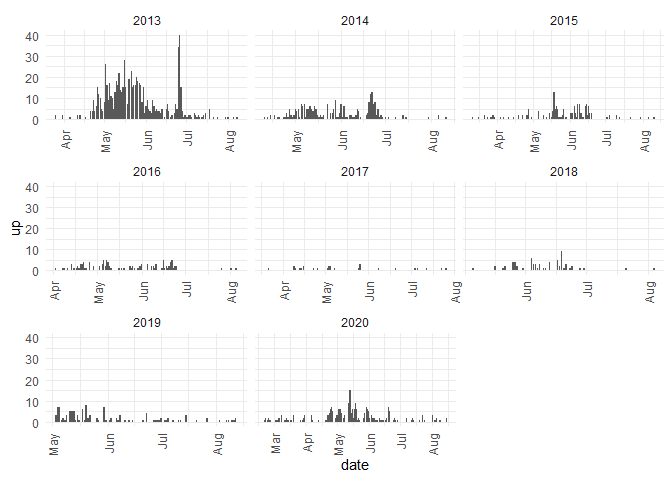
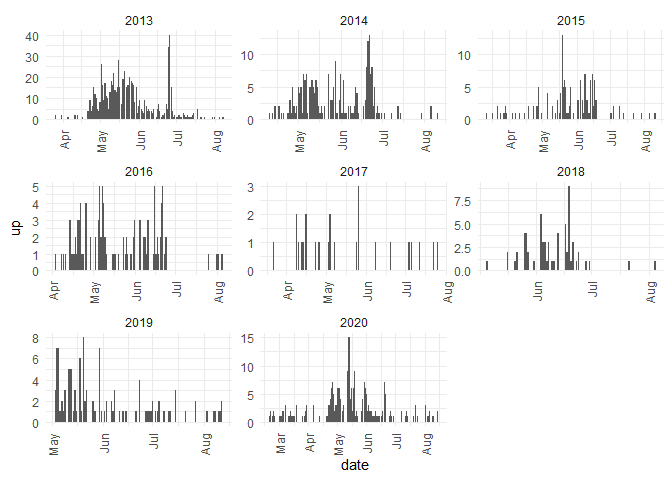
Adds additional qc for passage data into md

diff --git a/scripts/adult-upstream-passage-monitoring/clear-creek-qc-checklist.md b/scripts/adult-upstream-passage-monitoring/clear-creek-qc-checklist.md
@@ -7,10 +7,26 @@ Erin Cain
 
 ## Description of Monitoring Data
 
-TODO add current knows here
+**Timeframe:** 2013-2020
 
-TODO investigate/talk about outages, is a 0 a real zero or explained by
-other factors TODO get location of video monitoring station
+**Video Season:** August - December
+
+**Completeness of Record throughout timeframe:** Data are not padded -
+missing data indicate a period where footage was not collected by USFWS
+(However we are filtering for spring run so it is also possible that
+footage was taken but no spring run were found)
+
+-   TODO investigate/talk about outages, is a 0 a real zero or explained
+    by other factors
+
+**Sampling Location:** TODO get location of video monitoring station
+
+**Data Contact:** [Sam Provins](mailto:samuel_provins@fws.gov)
+
+Additional information describing this monitoring data is available in
+the [Adult Spring Run Chinook Salmon Monitoring in Clear Creek
+Report](https://www.fws.gov/redbluff/CC%20BC/Clear%20Creek%20Monitoring%20Final%20Reports/2013-2018%20Clear%20Creek%20Adult%20Spring-run%20Chinook%20Salmon%20Monitoring.pdf)
+prepared by USFWS.
 
 ## Access Cloud Data
 
@@ -24,7 +40,8 @@ gcs_auth(json_file = Sys.getenv("GCS_AUTH_FILE"))
 gcs_global_bucket(bucket = Sys.getenv("GCS_DEFAULT_BUCKET"))
 
 # git data and save as xlsx
-gcs_get_object(object_name = "adult-upstream-passage-monitoring/clear-creek/ClearCreekVideoWeir_AdultRecruitment_2013-2020.xlsx",
+gcs_get_object(object_name = 
+                 "adult-upstream-passage-monitoring/clear-creek/data-rawClearCreekVideoWeir_AdultRecruitment_2013-2020.xlsx",
                bucket = gcs_get_global_bucket(),
                saveToDisk = "test-data.xlsx",
                overwrite = TRUE)
@@ -121,13 +138,18 @@ cleaner_video_data <- raw_video_data %>%
 ``` r
 cleaner_video_data %>% ggplot(aes(x = date, y = up)) + 
   geom_col() + 
-  facet_wrap(~year(date), scales = "free_x") + 
+  facet_wrap(~year(date), scales = "free") + 
   scale_x_date(labels = date_format("%b"), date_breaks = "1 month") + 
   theme_minimal() + 
   theme(axis.text.x = element_text(angle = 90, vjust = 0.5, hjust=1))
 ```
 
 ![](clear-creek-qc-checklist_files/figure-gfm/unnamed-chunk-5-1.png)<!-- -->
+
+``` r
+# Add boxplot
+```
+
 **Numeric Summary of Passage Counts Moving Up over Period of Record**
 
 ``` r
@@ -157,13 +179,17 @@ done to see if 0 is a real 0 or if it can be explained by other factors
 ``` r
 cleaner_video_data %>% ggplot(aes(x = date, y = down)) + 
   geom_col() + 
-  facet_wrap(~year(date), scales = "free_x") + 
+  facet_wrap(~year(date), scales = "free") + 
   scale_x_date(labels = date_format("%b"), date_breaks = "1 month") + 
   theme_minimal() + 
   theme(axis.text.x = element_text(angle = 90, vjust = 0.5, hjust=1))
 ```
 
-![](clear-creek-qc-checklist_files/figure-gfm/unnamed-chunk-7-1.png)<!-- -->
+![](clear-creek-qc-checklist_files/figure-gfm/unnamed-chunk-8-1.png)<!-- -->
+
+``` r
+# Add boxplot
+```
 
 **Numeric Summary of Passage Counts Moving Down over Period of Record**
 
@@ -238,10 +264,8 @@ table(cleaner_video_data$adipose) # TODO fix inconsistent names see below
     ##       1     195    1018     845     219
 
 ``` r
-domain_description[which(domain_description$Domain == "ADIPOSE"), ]$Description
+description <- domain_description[which(domain_description$Domain == "ADIPOSE"), ]$Description
 ```
-
-    ## [1] "Salmon and trout only. Partial clipped adipose fins are considered absent."
 
 Fix inconsistencies with spelling, capitalization, and abbreviations.
 
@@ -331,10 +355,8 @@ table(cleaner_video_data$jack_size) # TODO fix inconsistent names see below
     ## 1958   21    1  283
 
 ``` r
-domain_description[which(domain_description$Domain == "JACKSIZE"), ]$Description
+description <- domain_description[which(domain_description$Domain == "JACKSIZE"), ]$Description
 ```
-
-    ## [1] "Salmon only (Fork Length less than 22\"). Total width of Jack plate is 22\"."
 
 Fix inconsistencies with spelling, capitalization, and abbreviations.
 
